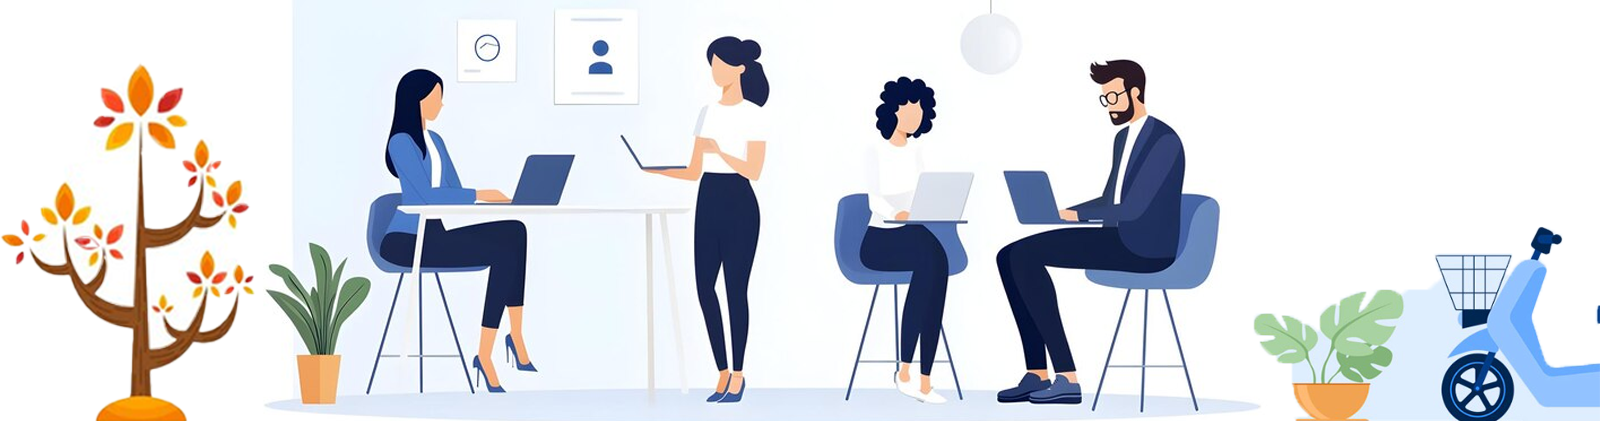
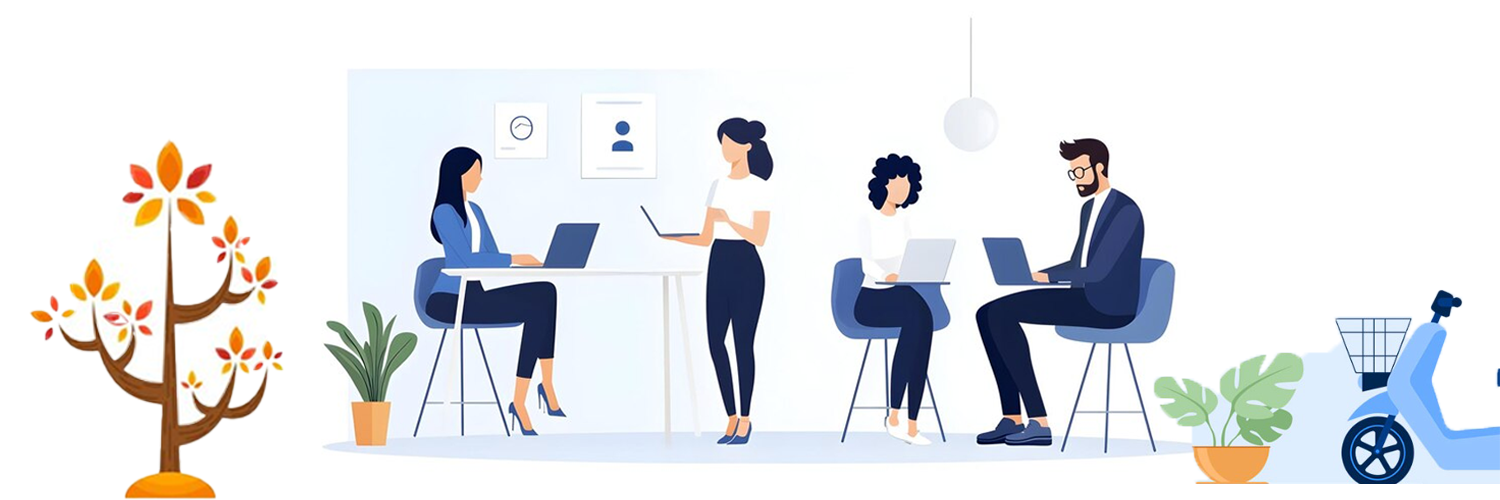
change in background

diff --git a/zipto/home-2.html b/zipto/home-2.html
@@ -197,7 +197,7 @@
 
         <!-- banner wrapper -->
         <div class="banner-wrapper style1 bg-image-contain"
-            style="background-image: url(images/gandu.jpg);">
+            style="background-image: url(images/image\ of\ background.png);">
             <div class="tab-wrapper">
                 <div class="container">
                     <div class="row">
